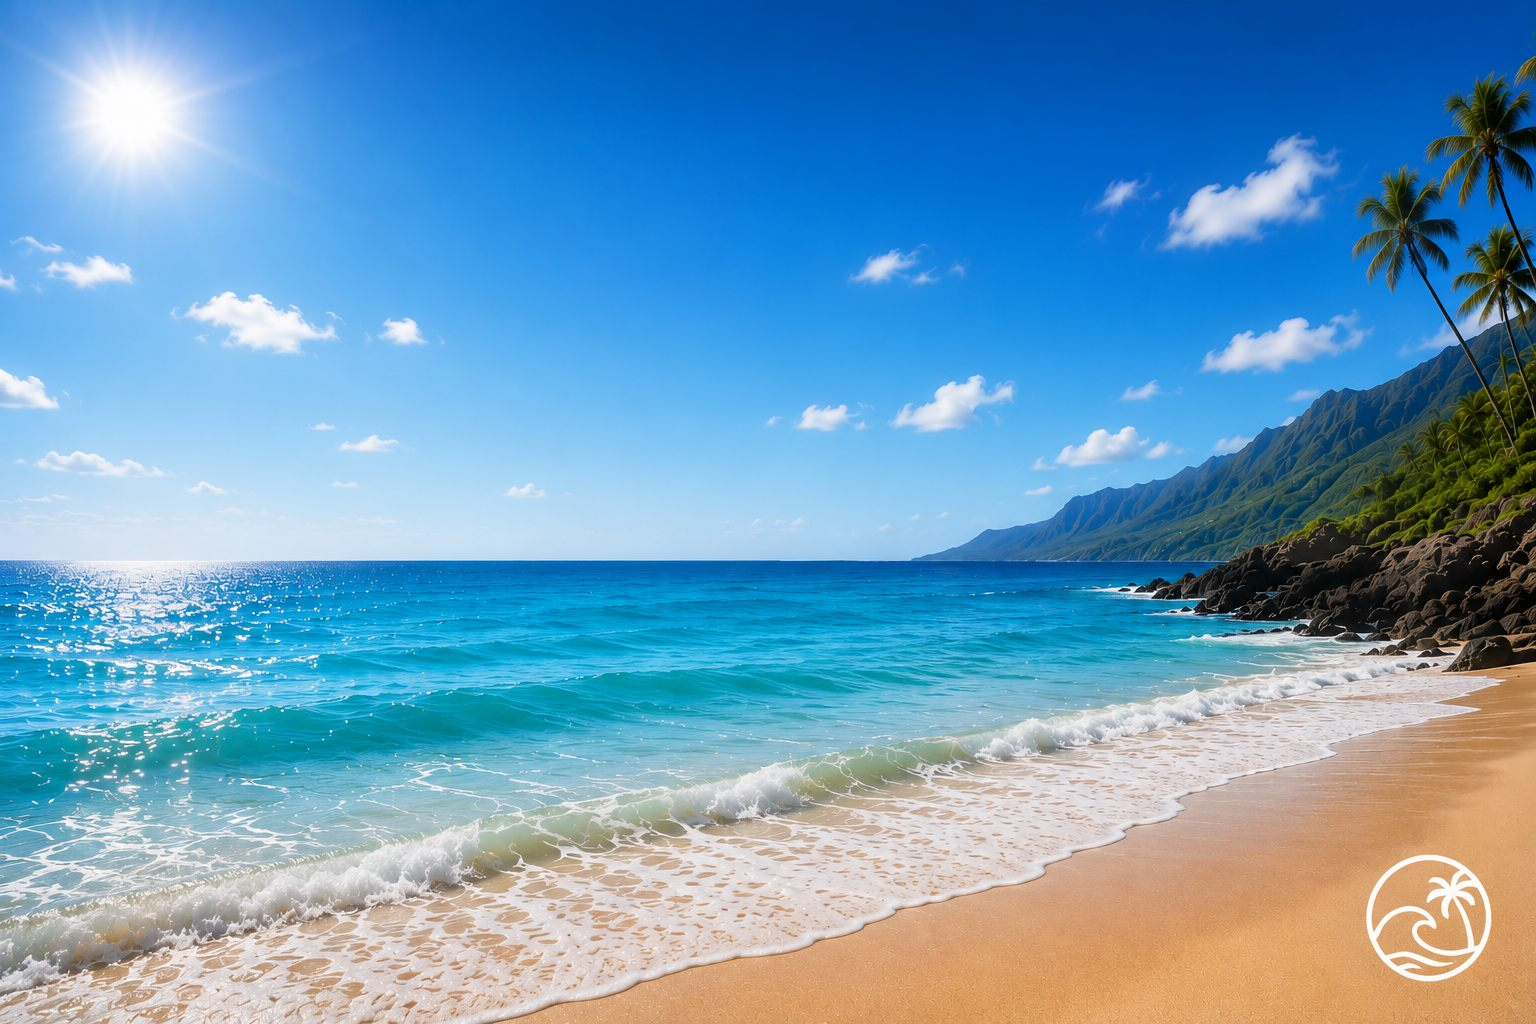
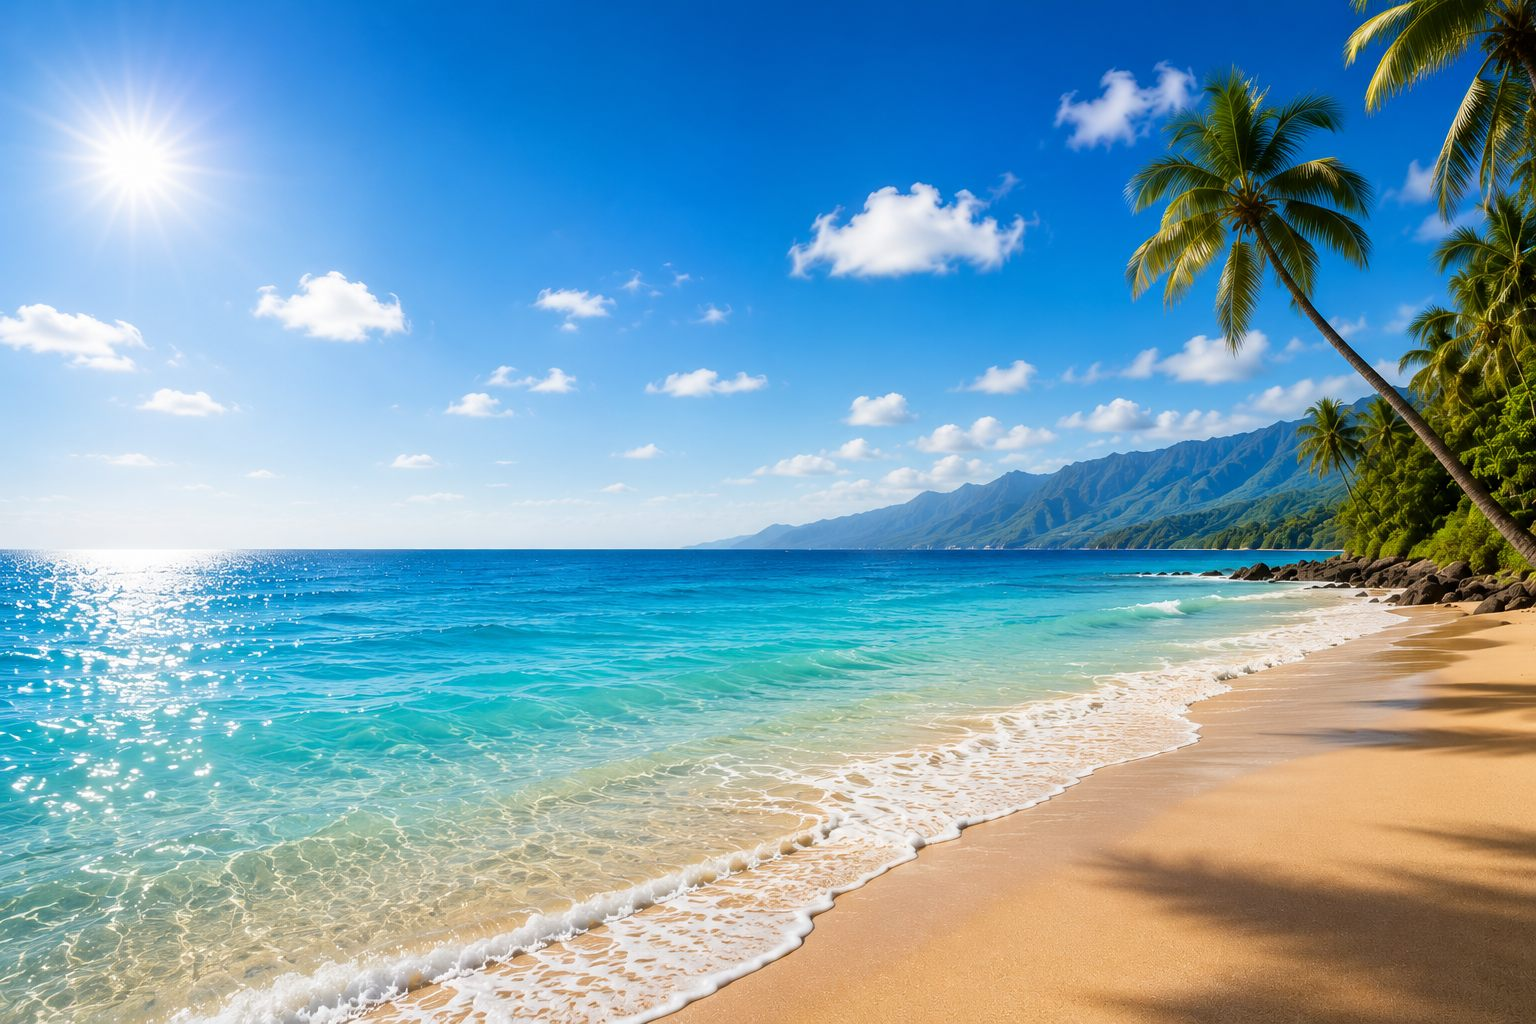
Fix Lovelace card dependency/render bugs, add text color and click-to-more-info
Hassfest rejected the hard http/frontend dependency (and it broke the
test harness by forcing a real frontend startup) — switched to
after_dependencies, which satisfies the lint without requiring it.
The card also refused to render without device_id, which is only
needed by the editor's pickers, not by rendering itself.

Also: configurable text color, clicking a value opens its more-info
dialog, and refreshed the two bundled background photos.

diff --git a/custom_components/beach_weather/www/beach-weather-card.js b/custom_components/beach_weather/www/beach-weather-card.js
@@ -4,6 +4,7 @@ const DOMAIN = "beach_weather";
 const DEFAULT_BACKGROUND = "/beach_weather_static/beach-weather-background.jpg";
 const SUNSET_BACKGROUND = "/beach_weather_static/beach-weather-background-sunset.jpg";
 const DEFAULT_ASPECT_RATIO = "16:9";
+const DEFAULT_TEXT_COLOR = "#ffffff";
 
 // `background_image` config value: "" -> DEFAULT_BACKGROUND, "sunset" -> SUNSET_BACKGROUND,
 // anything else is treated as a literal URL to a user-supplied image.
@@ -88,6 +89,7 @@ class BeachWeatherCard extends HTMLElement {
     this._config = {
       aspect_ratio: DEFAULT_ASPECT_RATIO,
       background_image: "",
+      text_color: DEFAULT_TEXT_COLOR,
       items: [],
       ...config,
     };
@@ -115,10 +117,10 @@ class BeachWeatherCard extends HTMLElement {
     const card = document.createElement("ha-card");
     card.style.overflow = "hidden";
 
-    if (!this._config.device_id) {
+    if (!this._config.items || this._config.items.length === 0) {
       const notice = document.createElement("div");
       notice.style.padding = "16px";
-      notice.textContent = "Beach Weather Card: bitte einen Standort im Editor auswählen.";
+      notice.textContent = "Beach Weather Card: keine Werte konfiguriert.";
       card.appendChild(notice);
       this.appendChild(card);
       this._itemNodes = [];
@@ -154,10 +156,22 @@ class BeachWeatherCard extends HTMLElement {
     el.style.alignItems = "center";
     el.style.gap = "2px";
     el.style.textShadow = "0 1px 3px rgba(0,0,0,0.6)";
-    el.style.color = "#fff";
-    el.style.pointerEvents = "none";
+    el.style.color = this._config.text_color || DEFAULT_TEXT_COLOR;
     el.style.textAlign = "center";
     el.style.whiteSpace = "nowrap";
+    el.style.cursor = "pointer";
+
+    if (item.entity) {
+      el.addEventListener("click", () => {
+        this.dispatchEvent(
+          new CustomEvent("hass-more-info", {
+            detail: { entityId: item.entity },
+            bubbles: true,
+            composed: true,
+          })
+        );
+      });
+    }
 
     let icon = null;
     if (item.show_icon !== false) {
@@ -207,6 +221,7 @@ class BeachWeatherCardEditor extends HTMLElement {
     this._config = {
       aspect_ratio: DEFAULT_ASPECT_RATIO,
       background_image: "",
+      text_color: DEFAULT_TEXT_COLOR,
       items: [],
       ...config,
     };
@@ -279,6 +294,10 @@ class BeachWeatherCardEditor extends HTMLElement {
             <label>Seitenverhältnis (z.B. 16:9, 4:3, 1:1)</label>
             <input type="text" id="aspect" />
           </div>
+          <div class="bwc-row">
+            <label>Schriftfarbe</label>
+            <input type="color" id="text-color" />
+          </div>
         </details>
       </div>
     `;
@@ -307,6 +326,11 @@ class BeachWeatherCardEditor extends HTMLElement {
       this._fireChanged();
       this._renderDynamic();
     });
+    this.querySelector("#text-color").addEventListener("change", (ev) => {
+      this._config = { ...this._config, text_color: ev.target.value || DEFAULT_TEXT_COLOR };
+      this._fireChanged();
+      this._renderDynamic();
+    });
 
     this._renderDynamic();
   }
@@ -332,6 +356,7 @@ class BeachWeatherCardEditor extends HTMLElement {
     this.querySelector("#bg-custom-row").style.display = isPreset ? "none" : "";
     this.querySelector("#bg-custom").value = isPreset ? "" : bg;
     this.querySelector("#aspect").value = this._config.aspect_ratio || DEFAULT_ASPECT_RATIO;
+    this.querySelector("#text-color").value = this._config.text_color || DEFAULT_TEXT_COLOR;
 
     this._renderCanvas();
     this._renderList();
@@ -348,6 +373,7 @@ class BeachWeatherCardEditor extends HTMLElement {
       el.className = "bwc-item";
       el.style.left = `${item.x ?? 50}%`;
       el.style.top = `${item.y ?? 50}%`;
+      el.style.color = this._config.text_color || DEFAULT_TEXT_COLOR;
 
       if (item.show_icon !== false && item.entity) {
         const stateObj = this._hass.states[item.entity];

diff --git a/custom_components/beach_weather/__init__.py b/custom_components/beach_weather/__init__.py
@@ -26,7 +26,7 @@ PLATFORMS = ["sensor", "button", "weather"]
 
 # Bump alongside manifest.json's "version" so browsers pick up card changes
 # after a HACS update instead of serving a cached copy of the old script.
-CARD_VERSION = "0.15.0"
+CARD_VERSION = "0.15.1"
 STATIC_URL_PATH = "/beach_weather_static"
 CARD_URL = f"{STATIC_URL_PATH}/beach-weather-card.js?v={CARD_VERSION}"
 

diff --git a/CHANGELOG.md b/CHANGELOG.md
@@ -2,6 +2,15 @@
 
 All notable changes to this project will be documented in this file.
 
+## [0.15.1] - 2026-07-26
+### Fixed
+- Hassfest failed on the `http`/`frontend` dependency check the new card relies on — moved them to `after_dependencies` instead of a hard `dependencies` entry (which forced a real frontend startup, breaking the unit test harness)
+- The card refused to render without a `device_id` set — that field is only needed by the editor's pickers, not by rendering itself, so hand-written YAML with just `items:` now works
+
+### Added
+- Configurable text color for the card's values (`text_color`, default white), editable via a color picker in the editor's "Erweitert" section
+- Clicking a value on the card now opens that entity's more-info dialog, same as tapping any other HA entity
+
 ## [0.15.0] - 2026-07-26
 ### Added
 - New Lovelace card (`custom:beach-weather-card`), bundled with the integration and auto-registered — no manual resource setup needed. Pick a location and drag sensor values (icon + value, name optional) freely onto a beach photo background, right in the card's visual editor. Ships with two default background photos (sunny / sunset), a custom image URL is also supported. Card width is responsive, with a configurable aspect ratio

diff --git a/README.md b/README.md
@@ -90,7 +90,7 @@ The integration ships its own card, `custom:beach-weather-card` — it registers
 2. In the card editor, pick a **location** (one of your Beach Weather devices)
 3. Drag the value chips directly on the preview image to position them
 4. Per value: choose the sensor, toggle whether the name is shown, toggle whether the icon is shown, or remove it
-5. Under **Erweitert**: pick one of the two bundled background photos (sunny / sunset) or supply your own image URL, and adjust the card's aspect ratio (e.g. `16:9`, `4:3`, `1:1`) — the card's width is always responsive to the dashboard column
+5. Under **Erweitert**: pick one of the two bundled background photos (sunny / sunset) or supply your own image URL, adjust the card's aspect ratio (e.g. `16:9`, `4:3`, `1:1`) and the text color — the card's width is always responsive to the dashboard column
 
 Example YAML:
 
@@ -99,6 +99,7 @@ type: custom:beach-weather-card
 device_id: 3f8a1c2b9e4d5f6a7b8c9d0e1f2a3b4c
 aspect_ratio: "16:9"
 background_image: ""   # "" = sunny (default), "sunset" = bundled sunset photo, or any image URL
+text_color: "#ffffff"
 items:
   - entity: sensor.water_temperature_platja_de_muro
     x: 12
